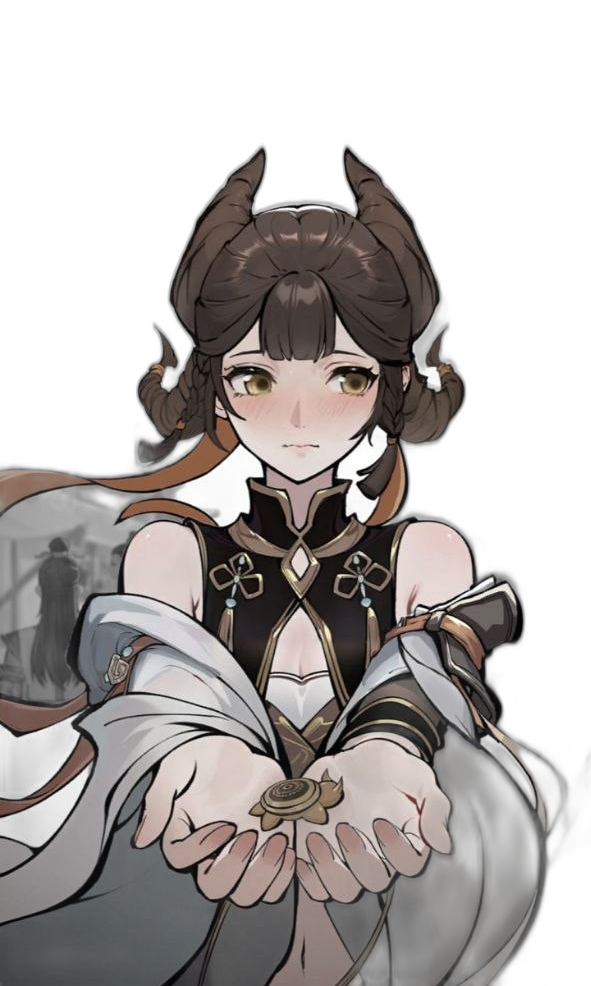
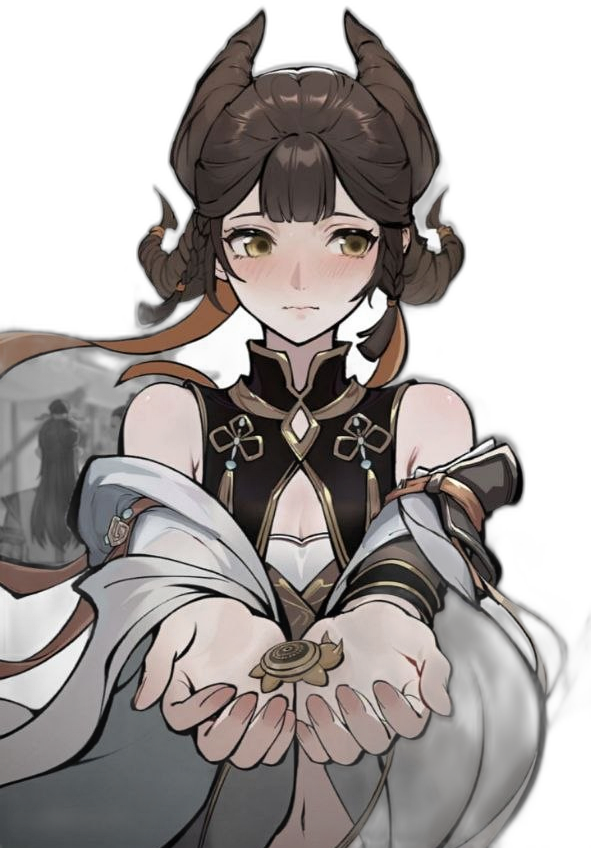
fix: crop transparent padding from image, fix left overlap
- Removed 138px transparent space above head in character-clean.png
- Shifted sprite to 55% horizontal so left hair/robes don't spill into report

diff --git a/character-live2d.js b/character-live2d.js
@@ -62,7 +62,8 @@
     // Scale to fit panel width
     var scale = s.w / tw;
     sprite.scale.set(scale);
-    sprite.x = s.w / 2;
+    // Shift right so left side (hair/robes) doesn't overflow into report
+    sprite.x = s.w * 0.55;
     sprite.y = 0;
   }
 
@@ -83,7 +84,7 @@
 
       // Side-to-side rocking — clearly visible
       var drift = Math.sin(time * 0.7) * 6;
-      sprite.x = s.w / 2 + drift;
+      sprite.x = s.w * 0.55 + drift;
 
       // Vertical float — gentle bobbing from top
       var bob = Math.sin(time * 1.0) * 3;
